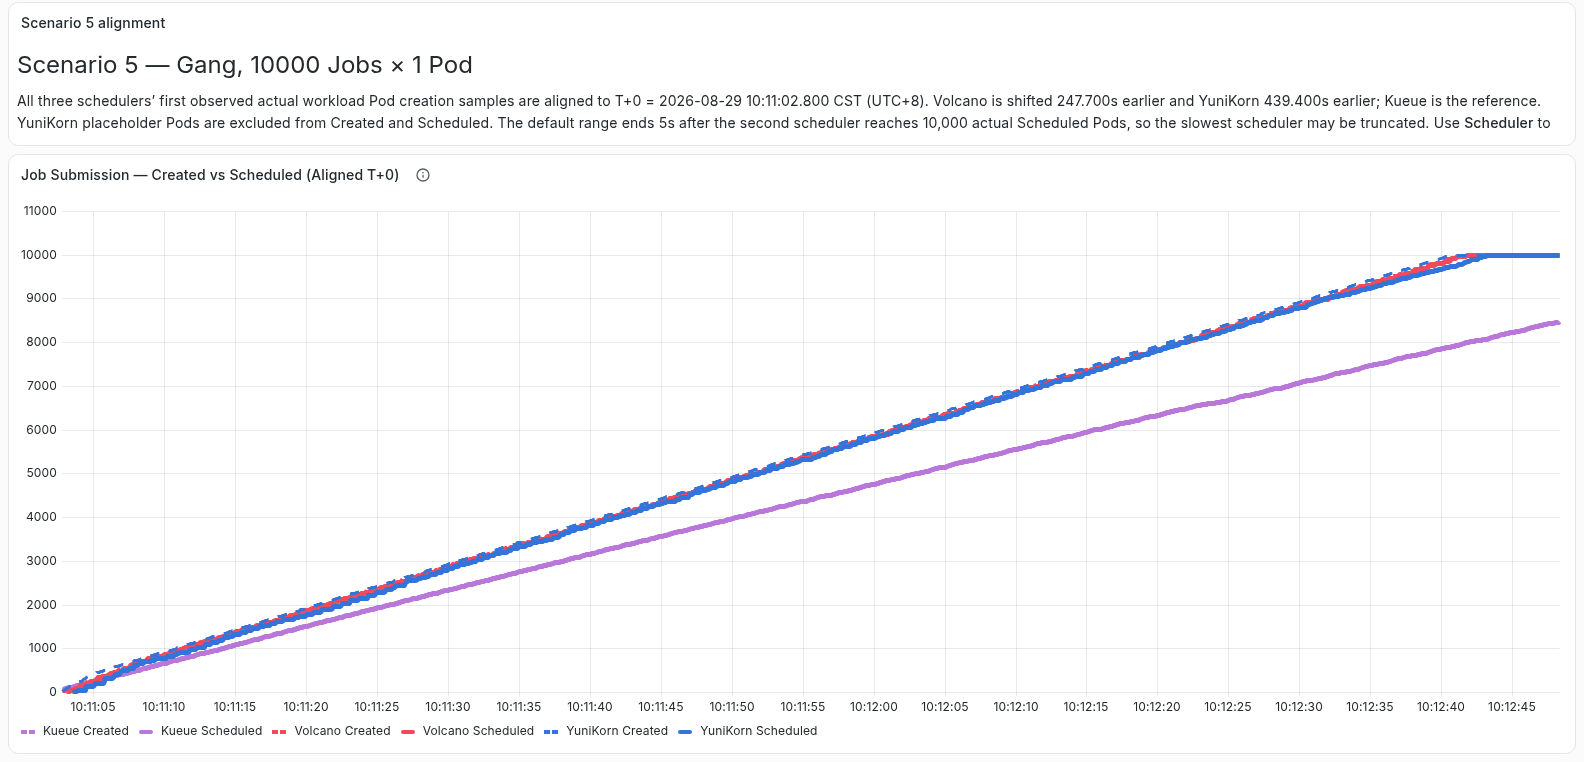
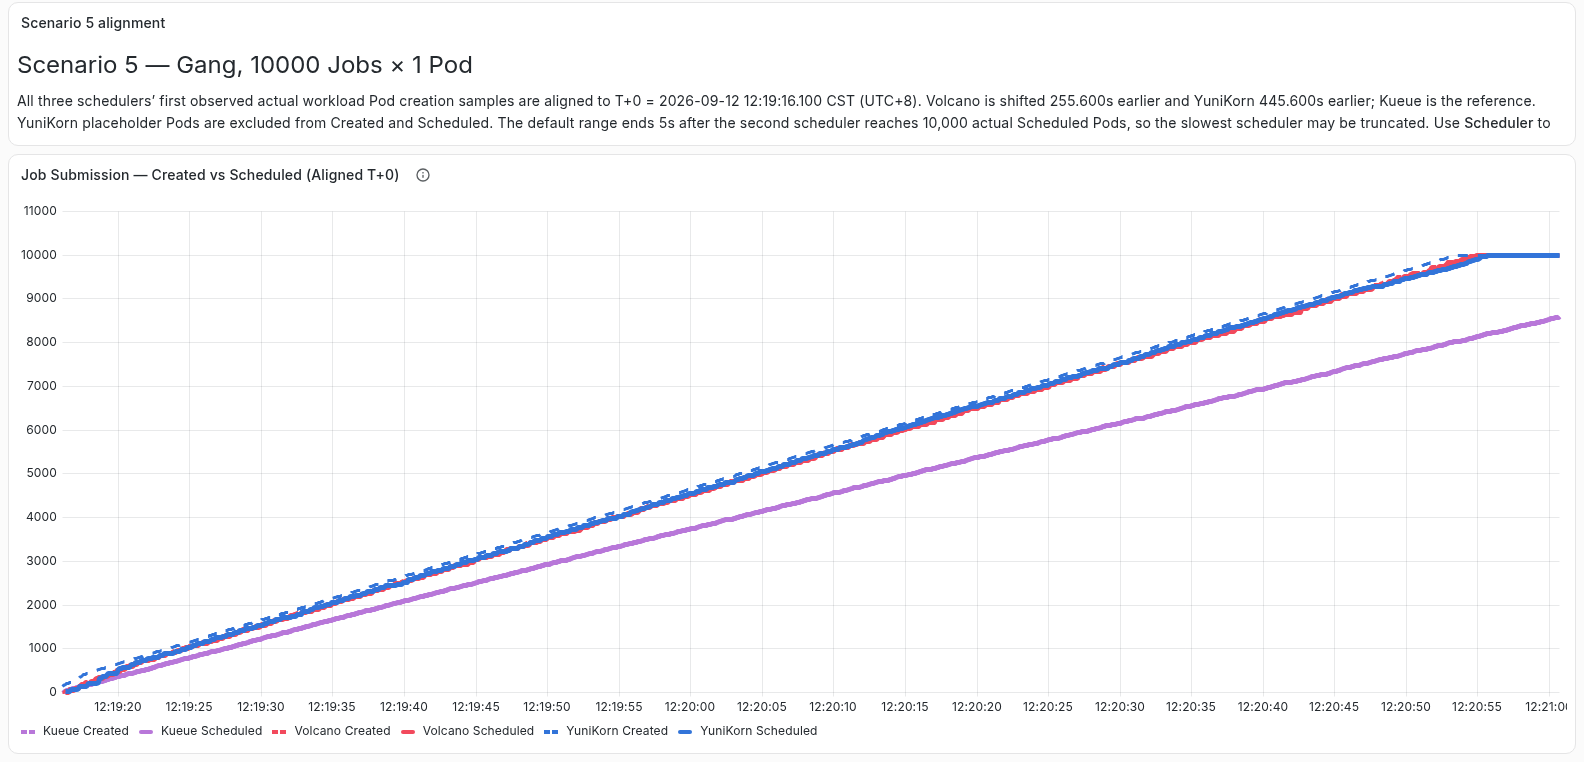
results: scenario test 5 091212

diff --git a/scenario_test_report_091212.md b/scenario_test_report_091212.md
@@ -1,0 +1,30 @@
+# 场景测试报告（通过）
+
+## 1. 执行概要
+
+- 测试 Commit：`c407fdb3e6df802fa03c3c8acd0fffd7fca934e7`
+- 请求场景顺序：场景 5
+- 执行命令：`make scenario-5`；清理命令：`make down`
+- tmux 会话：`cst-scenario-20260912121814`
+- 整体 CST 时间：2026-09-12 12:18:50 至 2026-09-12 12:33:18
+- 精确耗时：868739 毫秒（14 分 28.739 秒）
+- 场景 5：`make scenario-5` 退出码 0；`make down` 退出码 0
+- 通过 Case：3/3（Kueue、Volcano、YuniKorn 各 1 个 `TestBatchJob`）
+- 更新结果场景数：1
+- 整体状态：通过
+
+## 2. 场景时间边界与结果目录
+
+| 场景 | 模式与参数 | CST（UTC+8）时间边界 | 耗时 | 指标时间窗（毫秒） | 结果目录 | 结果 |
+|---|---|---|---:|---:|---|---|
+| 场景 5 | Batch；GANG=true；QUEUES_SIZE=1；JOBS_SIZE_PER_QUEUE=10000；PODS_SIZE_PER_JOB=1；PREEMPTION=false | 2026-09-12 12:18:50 至 2026-09-12 12:33:18 | 868701 毫秒 | from=1789186730600；to=1789187503769 | `results/scenario-5` | 通过 |
+
+结果目录包含 `envs.txt`、`result-window.txt`、`kueue`、`volcano`、`yunikorn` 和 Batch Dashboard 图片。
+
+## 3. 问题说明
+
+未发现影响结论的问题。场景命令、三项 `TestBatchJob`、清理命令均成功；结果暂存路径已清理。最终 `verify-base.sh 1000`、`verify-schedulers.sh` 和 `verify-monitoring.sh` 均通过，Audit Exporter 保持 1 副本运行。
+
+## 4. 最终结论
+
+通过。场景 5 已完成，3/3 Case 通过，`results/scenario-5` 已更新，场景结束后的空闲基线已恢复并验证通过。
